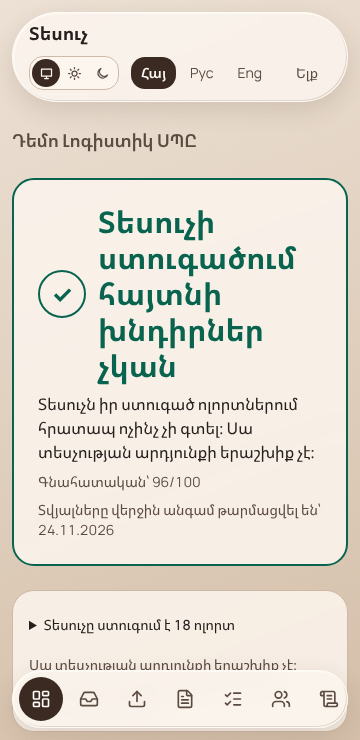
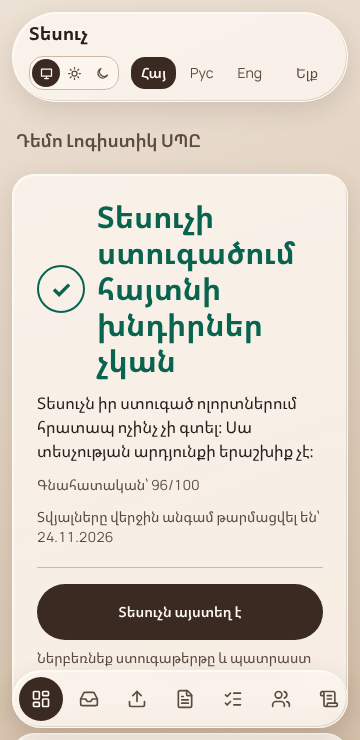
Owner home on the reference layout: status panel, metric cards, tasks panel, document meter; glass section/metric/badge/meter primitives
Claude-Session: https://claude.ai/code/session_01W7Mwb1EYg5sjKz2wFpw3rf

diff --git a/src/components/dashboard/owner-home.tsx b/src/components/dashboard/owner-home.tsx
@@ -1,4 +1,8 @@
+import { ClipboardCheck, Gauge, ListChecks } from "lucide-react";
 import { getTranslations } from "next-intl/server";
+import { glassButtonClass } from "@/components/ui/glass-button";
+import { GlassMetric } from "@/components/ui/glass-metric";
+import { GlassSection } from "@/components/ui/glass-section";
 import { Link } from "@/i18n/navigation";
 import { formatDate, ruleById, rulesReviewedLine, type Locale } from "@/lib/notify/i18n";
 import type { Readiness } from "@/lib/readiness";
@@ -28,77 +32,90 @@ export async function OwnerHome({ locale, company, snapshot, telegramLinked, ass
   const stale = isStale(snapshot.dataUpdatedAt, today) ? daysSince(snapshot.dataUpdatedAt, today) : null;
   const cov = coverage(locale as Locale);
   const pack = `/api/pdf/checklist?company=${company.id}&locale=${locale}&pack=1`;
+  const cl = checklistCoverage();
+  const tasksTone = snapshot.tasks.some((k) => k.overdue) ? "danger" : snapshot.tasks.length ? "warn" : "ok";
   return (
-    <div className="mx-auto flex max-w-2xl flex-col gap-6">
-      <h1 className="text-lg font-semibold text-muted">{company.name}</h1>
+    <div className="flex flex-col gap-5">
+      <h1 className="px-1 text-lg font-semibold text-muted">{company.name}</h1>
 
-      <section className={`flex flex-col gap-2 rounded-theme-lg border-2 bg-surface p-6 ${tone.border}`} aria-labelledby="status-h">
-        <p id="status-h" className={`flex items-center gap-3 text-3xl font-bold sm:text-4xl ${tone.text}`}>
-          <span aria-hidden="true" className="inline-flex h-12 w-12 shrink-0 items-center justify-center rounded-full border-2 border-current text-2xl">{tone.icon}</span>
-          <span data-testid="readiness-status" data-status={snapshot.status}>{t(`status.${snapshot.status}`)}</span>
-        </p>
-        <p className="text-base">{t(`hint.${snapshot.status}`)}</p>
-        {snapshot.score !== null && <p className="text-sm text-muted">{t("score", { score: snapshot.score })}</p>}
-        {snapshot.dataUpdatedAt && <p className="text-sm text-muted" data-testid="data-updated">{t("dataAge", { date: formatDate(snapshot.dataUpdatedAt.slice(0, 10)) })}</p>}
-        {stale !== null && (
-          <p role="note" className="mt-1 rounded-theme border border-warn p-3 text-sm" data-testid="data-stale">
-            {t("dataAgeNudge", { days: stale })} <Link href="/app/import" className="font-semibold text-accent underline">{t("dataAgeCta")}</Link>
-          </p>
-        )}
-      </section>
+      <div className="grid gap-5 lg:grid-cols-[minmax(0,1.5fr)_minmax(0,1fr)]">
+        <div className="flex flex-col gap-5">
+          <section className={`glass flex flex-col gap-3 border-2 p-6 ${tone.border}`} aria-labelledby="status-h" data-glass-enter>
+            <p id="status-h" className={`flex items-center gap-3 text-3xl font-bold sm:text-4xl ${tone.text}`}>
+              <span aria-hidden="true" className="inline-flex size-12 shrink-0 items-center justify-center rounded-full border-2 border-current text-2xl">{tone.icon}</span>
+              <span data-testid="readiness-status" data-status={snapshot.status}>{t(`status.${snapshot.status}`)}</span>
+            </p>
+            <p className="text-base">{t(`hint.${snapshot.status}`)}</p>
+            {snapshot.score !== null && <p className="text-sm text-muted">{t("score", { score: snapshot.score })}</p>}
+            {snapshot.dataUpdatedAt && <p className="text-sm text-muted" data-testid="data-updated">{t("dataAge", { date: formatDate(snapshot.dataUpdatedAt.slice(0, 10)) })}</p>}
+            {stale !== null && (
+              <p role="note" className="rounded-theme border border-warn p-3 text-sm" data-testid="data-stale">
+                {t("dataAgeNudge", { days: stale })} <Link href="/app/import" className="font-semibold text-accent underline">{t("dataAgeCta")}</Link>
+              </p>
+            )}
+            <div className="mt-2 flex flex-col gap-2 border-t border-line pt-4">
+              <a href={pack} download data-testid="inspector-here" className={glassButtonClass("solid", "min-h-14 px-6 py-4 text-center text-lg font-bold")}>
+                {t("inspector")}
+              </a>
+              <p className="text-sm text-muted">{t("inspectorHint")}</p>
+            </div>
+          </section>
 
-      {snapshot.status !== "none" && (
-        <CoverageNote titles={cov.titles} summary={t("coverage.summary", { n: cov.count })} listLabel={t("coverage.list")} note={t("coverage.note")} reviewed={rulesReviewedLine(locale as Locale)} />
-      )}
-
-      <p className="-mt-3 px-1 text-sm text-muted" data-testid="checklist-coverage">{t("coverage.checklist", checklistCoverage())}</p>
-
-      {(snapshot.status === "none" || !telegramLinked) && (
-        <OnboardingSteps staffAdded={snapshot.status !== "none"} telegramLinked={telegramLinked} assisted={assisted} />
-      )}
-
-      {snapshot.status !== "none" && (
-        <section className="rounded-theme-lg border border-line bg-surface p-4" aria-labelledby="tasks-h">
-          <h2 id="tasks-h" className="mb-3 text-lg font-semibold">{t("tasksTitle")}</h2>
-          {snapshot.tasks.length === 0 ? (
-            <p className="text-muted">{t("noTasks")}</p>
-          ) : (
-            <ol className="flex flex-col gap-3">
-              {snapshot.tasks.map((task, i) => (
-                <li key={task.key} className="flex gap-3">
-                  <span aria-hidden="true" className="flex h-7 w-7 shrink-0 items-center justify-center rounded-full bg-surface-2 text-sm font-semibold">{i + 1}</span>
-                  <div className="min-w-0">
-                    <p className="font-medium">{ruleById(task.ruleId).title[locale as Locale]}</p>
-                    <p className="text-sm text-muted">
-                      {task.employee ? `${task.employee} · ` : ""}
-                      {t(task.overdue ? "overdue" : "due", { date: formatDate(task.dueDate) })}
-                    </p>
-                  </div>
-                </li>
-              ))}
-            </ol>
+          {snapshot.status !== "none" && (
+            <div className="grid gap-5 sm:grid-cols-3">
+              <GlassMetric label={t("metrics.score")} icon={<Gauge className="size-4" />} value={snapshot.score ?? "–"} caption="/ 100" tone={snapshot.status === "clear" ? "ok" : snapshot.status === "risk" ? "danger" : "warn"} />
+              <GlassMetric label={t("metrics.tasks")} icon={<ListChecks className="size-4" />} value={snapshot.tasks.length} tone={tasksTone} />
+              <GlassMetric label={t("metrics.checklist")} icon={<ClipboardCheck className="size-4" />} value={cl.checked} caption={t("metrics.of", { total: cl.total })} />
+            </div>
           )}
-        </section>
-      )}
 
-      {snapshot.status !== "none" && (
-        <DocumentsReady
-          locale={locale as Locale} companyId={company.id} initialTicked={ticked} canEdit={canEdit}
-          groups={documentGroups().map((g) => ({ ...g, label: CHECKLIST.groups[g.group]?.[locale as Locale] ?? g.group }))}
-        />
-      )}
+          {snapshot.status !== "none" && (
+            <CoverageNote titles={cov.titles} summary={t("coverage.summary", { n: cov.count })} listLabel={t("coverage.list")} note={t("coverage.note")} reviewed={rulesReviewedLine(locale as Locale)} />
+          )}
+          <p className="px-1 text-sm text-muted" data-testid="checklist-coverage">{t("coverage.checklist", checklistCoverage())}</p>
+        </div>
 
-      <section className="flex flex-col gap-2 rounded-theme-lg border border-line bg-surface p-4">
-        <a href={pack} download data-testid="inspector-here" className="inline-flex min-h-14 items-center justify-center rounded-theme bg-accent px-6 py-4 text-center text-lg font-bold text-accent-ink">
-          {t("inspector")}
-        </a>
-        <p className="text-sm text-muted">{t("inspectorHint")}</p>
-      </section>
+        <div className="flex flex-col gap-5">
+          {(snapshot.status === "none" || !telegramLinked) && (
+            <OnboardingSteps staffAdded={snapshot.status !== "none"} telegramLinked={telegramLinked} assisted={assisted} />
+          )}
 
-      <p className="flex flex-wrap gap-x-6 gap-y-2 text-sm">
-        <Link href={`/app/companies/${company.id}`} className="text-accent underline">{t("details")}</Link>
-        <Link href="/app?view=firm" className="text-accent underline">{t("allCompanies")}</Link>
-      </p>
+          {snapshot.status !== "none" && (
+            <GlassSection id="tasks-h" title={t("tasksTitle")}>
+              {snapshot.tasks.length === 0 ? (
+                <p className="text-muted">{t("noTasks")}</p>
+              ) : (
+                <ol className="flex flex-col gap-3">
+                  {snapshot.tasks.map((task, i) => (
+                    <li key={task.key} className="flex gap-3">
+                      <span aria-hidden="true" className="flex size-8 shrink-0 items-center justify-center rounded-full bg-surface-2 text-sm font-semibold">{i + 1}</span>
+                      <div className="min-w-0">
+                        <p className="font-medium">{ruleById(task.ruleId).title[locale as Locale]}</p>
+                        <p className="text-sm text-muted">
+                          {task.employee ? `${task.employee} · ` : ""}
+                          {t(task.overdue ? "overdue" : "due", { date: formatDate(task.dueDate) })}
+                        </p>
+                      </div>
+                    </li>
+                  ))}
+                </ol>
+              )}
+            </GlassSection>
+          )}
+
+          {snapshot.status !== "none" && (
+            <DocumentsReady
+              locale={locale as Locale} companyId={company.id} initialTicked={ticked} canEdit={canEdit}
+              groups={documentGroups().map((g) => ({ ...g, label: CHECKLIST.groups[g.group]?.[locale as Locale] ?? g.group }))}
+            />
+          )}
+
+          <p className="flex flex-wrap gap-x-6 gap-y-2 px-1 text-sm">
+            <Link href={`/app/companies/${company.id}`} className="text-accent underline">{t("details")}</Link>
+            <Link href="/app?view=firm" className="text-accent underline">{t("allCompanies")}</Link>
+          </p>
+        </div>
+      </div>
     </div>
   );
 }

diff --git a/src/components/ui/glass-metric.tsx b/src/components/ui/glass-metric.tsx
@@ -1,0 +1,19 @@
+import type { ReactNode } from "react";
+import { cn } from "@/lib/utils";
+
+export type GlassTone = "ok" | "warn" | "danger" | "neutral";
+export const toneText: Record<GlassTone, string> = { ok: "text-ok", warn: "text-warn", danger: "text-danger", neutral: "text-ink" };
+
+/** Small stat card: label + icon, a big value, a caption (after the reference's `Metric`). */
+export function GlassMetric({ label, icon, value, caption, tone = "neutral", className }: { label: string; icon?: ReactNode; value: ReactNode; caption?: ReactNode; tone?: GlassTone; className?: string }) {
+  return (
+    <article className={cn("glass flex flex-col gap-2 p-4", className)} data-glass-enter>
+      <div className="flex items-center justify-between gap-2 text-sm text-muted">
+        <span>{label}</span>
+        {icon && <span aria-hidden="true" className="grid size-8 place-items-center rounded-full bg-surface-2 text-ink">{icon}</span>}
+      </div>
+      <strong className={cn("text-3xl font-extrabold tabular-nums", toneText[tone])}>{value}</strong>
+      {caption && <div className="text-sm text-muted">{caption}</div>}
+    </article>
+  );
+}

diff --git a/src/components/dashboard/documents-ready.tsx b/src/components/dashboard/documents-ready.tsx
@@ -1,5 +1,6 @@
 "use client";
 
+import { GlassMeter } from "@/components/ui/glass-meter";
 import { useTranslations } from "next-intl";
 import { useState, useTransition } from "react";
 import { setChecklistTick } from "@/app/[locale]/app/actions";
@@ -32,7 +33,8 @@ export function DocumentsReady({ locale, companyId, groups, initialTicked, canEd
   };
 
   return (
-    <section className="rounded-theme-lg border border-line bg-surface p-4" aria-labelledby="docs-h" data-testid="documents-ready">
+    <section className="glass p-5" aria-labelledby="docs-h" data-testid="documents-ready">
+      <GlassMeter value={ticked.size} max={total} label={t("summary", { done: ticked.size, total })} className="mb-1" />
       <details>
         <summary id="docs-h" className="min-h-11 cursor-pointer py-2 text-lg font-semibold" data-testid="documents-summary">
           {t("summary", { done: ticked.size, total })}

diff --git a/src/components/ui/glass-section.tsx b/src/components/ui/glass-section.tsx
@@ -1,0 +1,18 @@
+import type { ReactNode } from "react";
+import { cn } from "@/lib/utils";
+
+/** Panel with a header row (title, optional subtitle, optional action), after the reference's `Panel`. */
+export function GlassSection({ title, subtitle, action, id, className, children, ...rest }: { title: string; subtitle?: string; action?: ReactNode; id?: string; className?: string; children: ReactNode } & { "data-testid"?: string }) {
+  return (
+    <section aria-labelledby={id} className={cn("glass flex flex-col gap-4 p-5", className)} data-glass-enter {...rest}>
+      <header className="flex items-start justify-between gap-3">
+        <div>
+          <h2 id={id} className="text-base font-bold">{title}</h2>
+          {subtitle && <p className="mt-0.5 text-sm text-muted">{subtitle}</p>}
+        </div>
+        {action}
+      </header>
+      {children}
+    </section>
+  );
+}

diff --git a/src/components/ui/glass-meter.tsx b/src/components/ui/glass-meter.tsx
@@ -1,0 +1,12 @@
+import { cn } from "@/lib/utils";
+
+/** Horizontal meter (reference `gd-capacity-track`). Exposes role="meter" with the numbers. */
+export function GlassMeter({ value, max, label, tone = "ok", className }: { value: number; max: number; label: string; tone?: "ok" | "warn" | "danger"; className?: string }) {
+  const pct = max > 0 ? Math.min(100, Math.max(0, (value / max) * 100)) : 0;
+  const fill = { ok: "bg-ok", warn: "bg-warn", danger: "bg-danger" }[tone];
+  return (
+    <div role="meter" aria-label={label} aria-valuenow={value} aria-valuemin={0} aria-valuemax={max} className={cn("h-2.5 overflow-hidden rounded-full bg-surface-2", className)}>
+      <span className={cn("block h-full rounded-full", fill)} style={{ width: `${pct}%` }} />
+    </div>
+  );
+}

diff --git a/src/components/ui/glass-badge.tsx b/src/components/ui/glass-badge.tsx
@@ -1,0 +1,13 @@
+import type { ReactNode } from "react";
+import { cn } from "@/lib/utils";
+import { toneText, type GlassTone } from "./glass-metric";
+
+/** Status pill. The label is always text, so colour is never the only signal. */
+export function GlassBadge({ tone = "neutral", children, className }: { tone?: GlassTone; children: ReactNode; className?: string }) {
+  return (
+    <span className={cn("inline-flex items-center gap-1.5 rounded-full border border-line bg-surface-2 px-2.5 py-0.5 text-xs font-semibold", toneText[tone], className)}>
+      <i aria-hidden="true" className="size-1.5 rounded-full bg-current" />
+      {children}
+    </span>
+  );
+}
